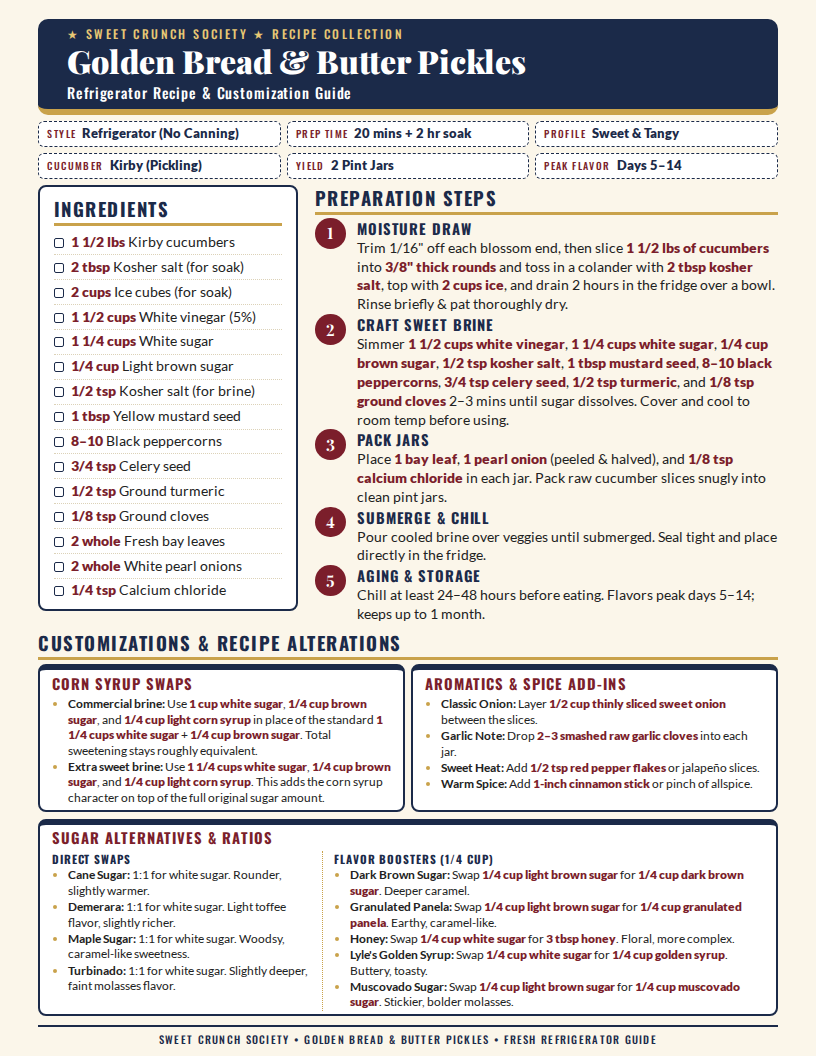
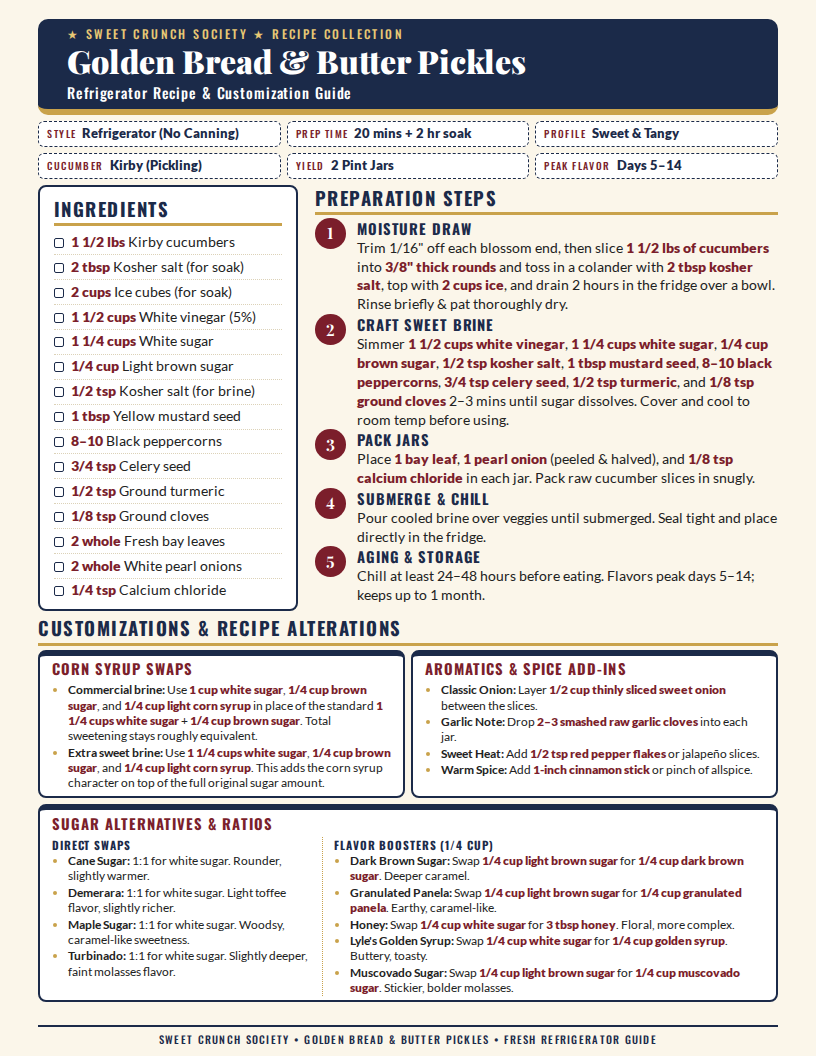
docs: shorten Pack Jars wording on Bread & Butter card
"Pack raw cucumber slices snugly into clean pint jars." ->
"Pack raw cucumber slices in snugly." Regenerated docs/preview.png.

Changed region(s): [[0.0306, 0.4375, 0.9498, 0.9688]]

diff --git a/index.html b/index.html
@@ -170,7 +170,7 @@
         <ol class="steps">
           <li><b>Moisture Draw</b>Trim 1/16" off each blossom end, then slice <strong>1 1/2 lbs of cucumbers</strong> into <strong>3/8" thick rounds</strong> and toss in a colander with <strong>2 tbsp kosher salt</strong>, top with <strong>2 cups ice</strong>, and drain 2 hours in the fridge over a bowl. Rinse briefly &amp; pat thoroughly dry.</li>
           <li><b>Craft Sweet Brine</b>Simmer <strong>1 1/2 cups white vinegar</strong>, <strong>1 1/4 cups white sugar</strong>, <strong>1/4 cup brown sugar</strong>, <strong>1/2 tsp kosher salt</strong>, <strong>1 tbsp mustard seed</strong>, <strong>8–10 black peppercorns</strong>, <strong>3/4 tsp celery seed</strong>, <strong>1/2 tsp turmeric</strong>, and <strong>1/8 tsp ground cloves</strong> 2–3 mins until sugar dissolves. Cover and cool to room temp before using.</li>
-          <li><b>Pack Jars</b>Place <strong>1 bay leaf</strong>, <strong>1 pearl onion</strong> (peeled &amp; halved), and <strong>1/8 tsp calcium chloride</strong> in each jar. Pack raw cucumber slices snugly into clean pint jars.</li>
+          <li><b>Pack Jars</b>Place <strong>1 bay leaf</strong>, <strong>1 pearl onion</strong> (peeled &amp; halved), and <strong>1/8 tsp calcium chloride</strong> in each jar. Pack raw cucumber slices in snugly.</li>
           <li><b>Submerge &amp; Chill</b>Pour cooled brine over veggies until submerged. Seal tight and place directly in the fridge.</li>
           <li><b>Aging &amp; Storage</b>Chill at least 24–48 hours before eating. Flavors peak <span style="white-space:nowrap">days 5–14</span>; keeps up to 1 month.</li>
         </ol>
